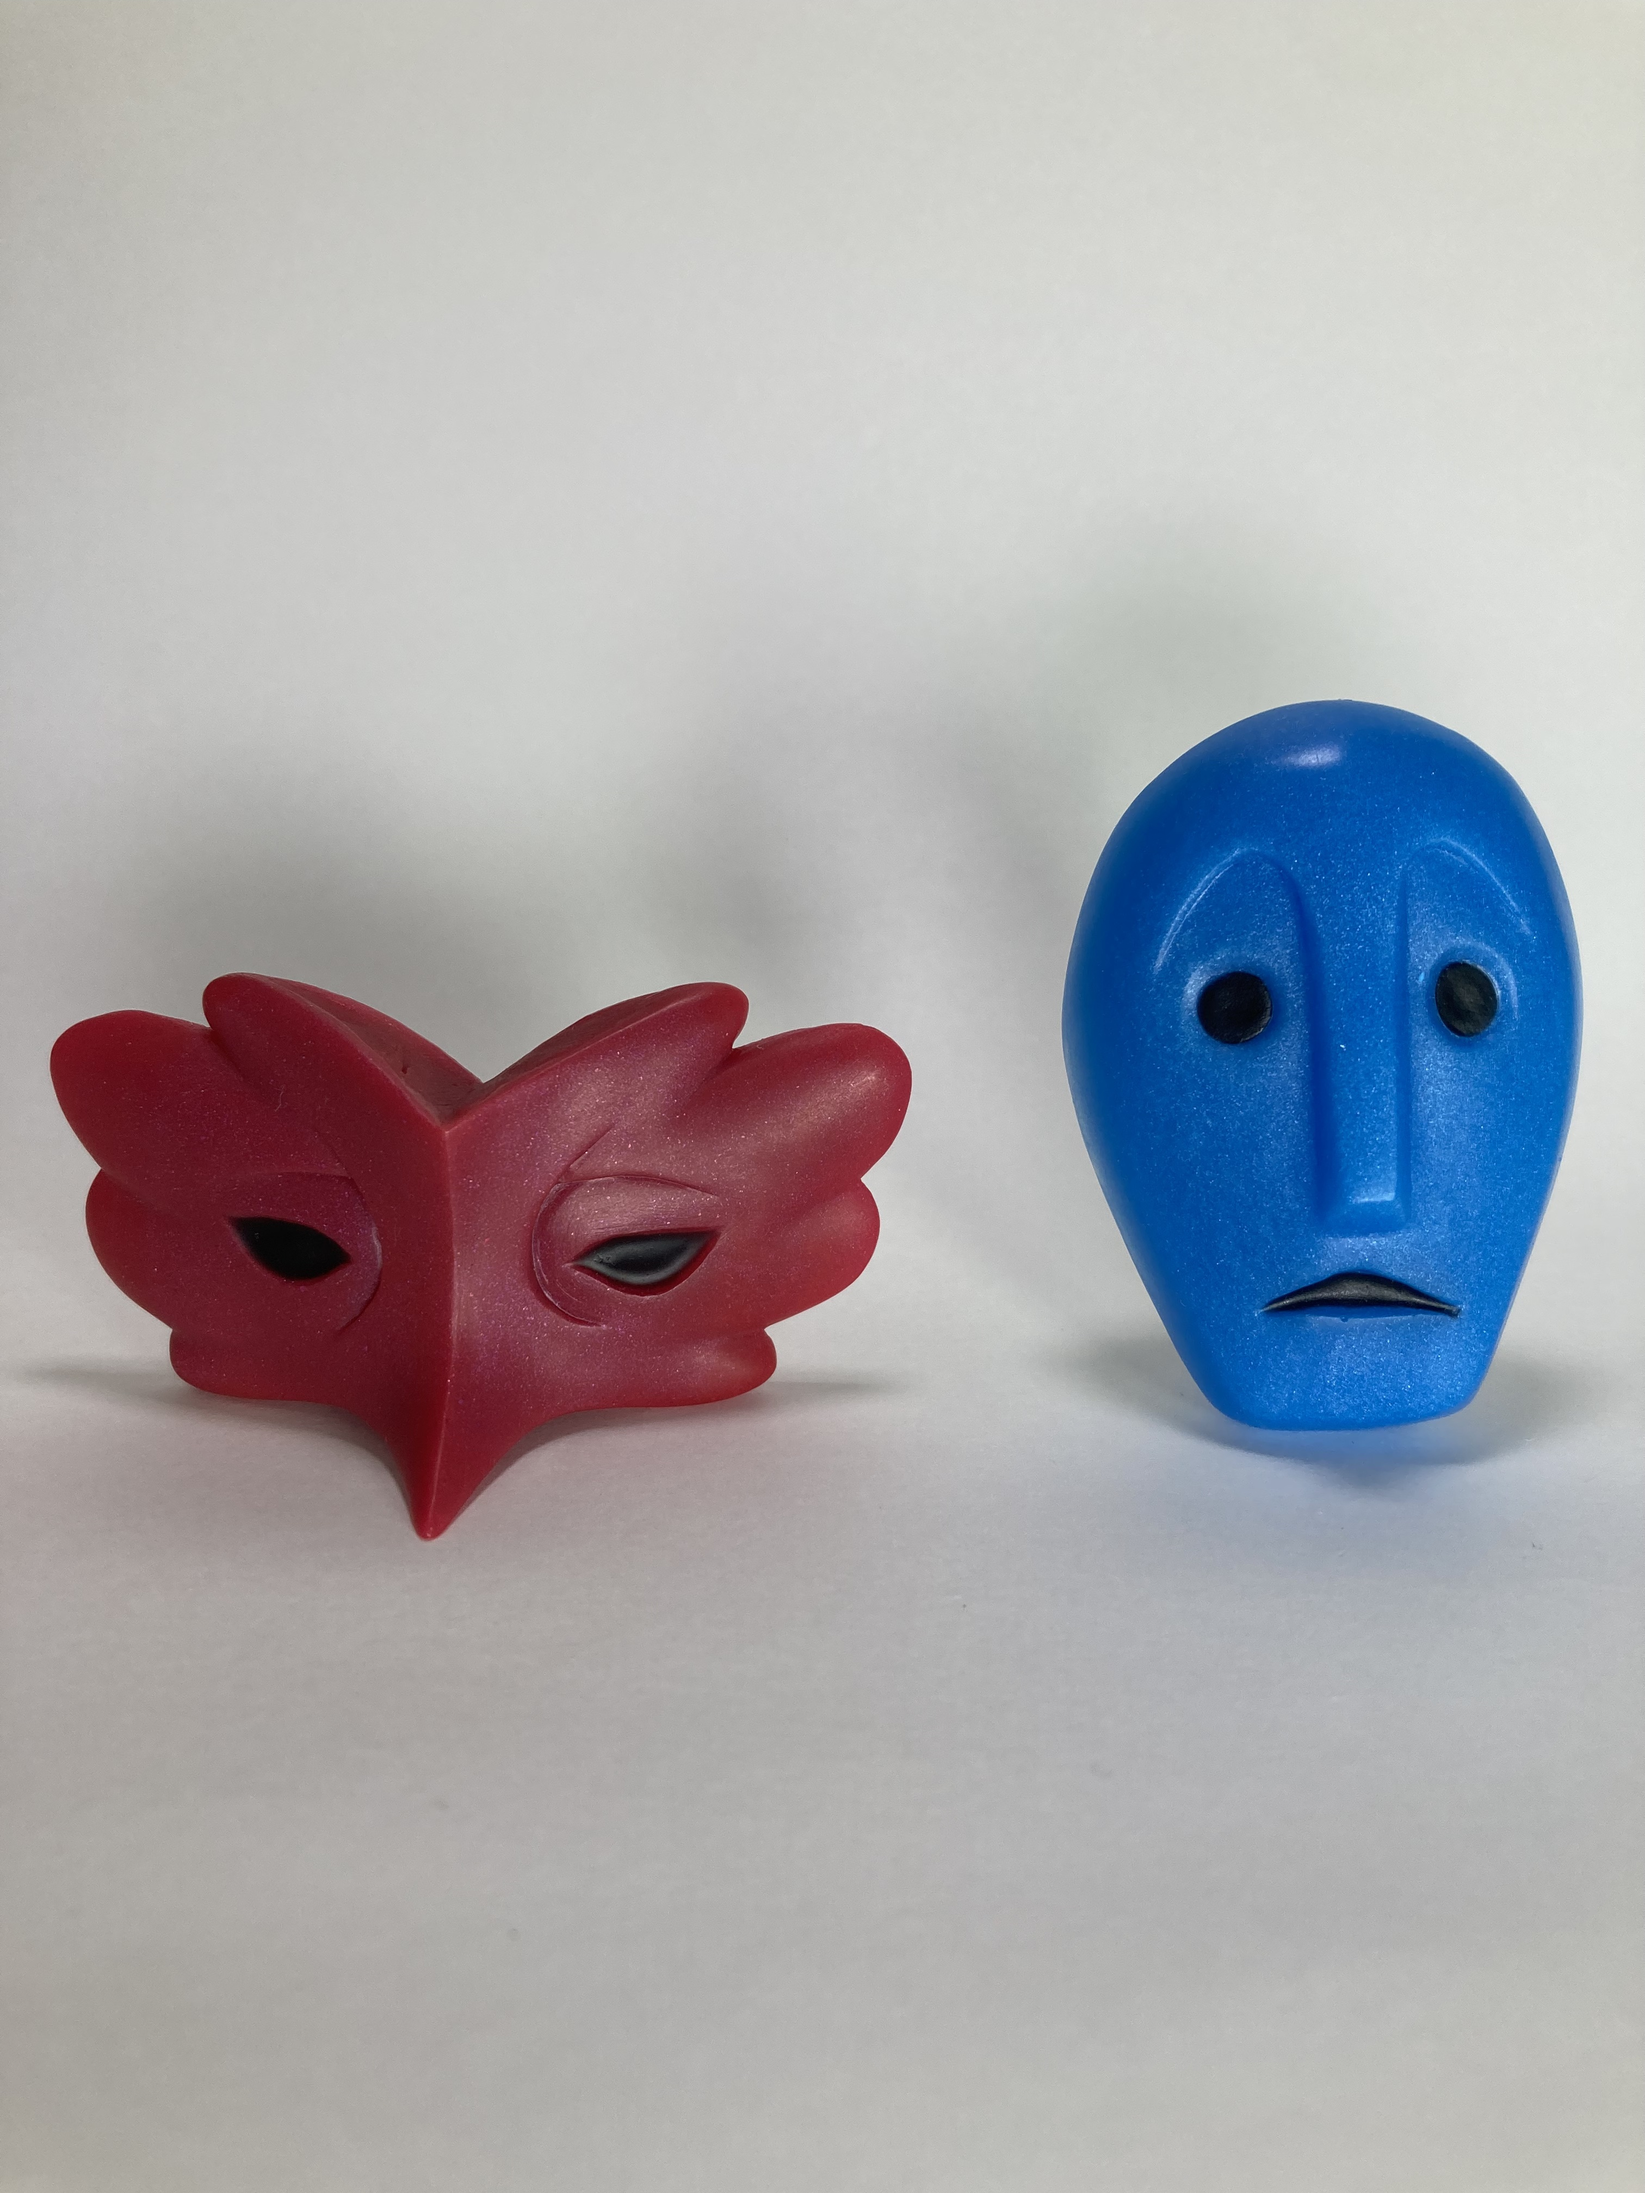
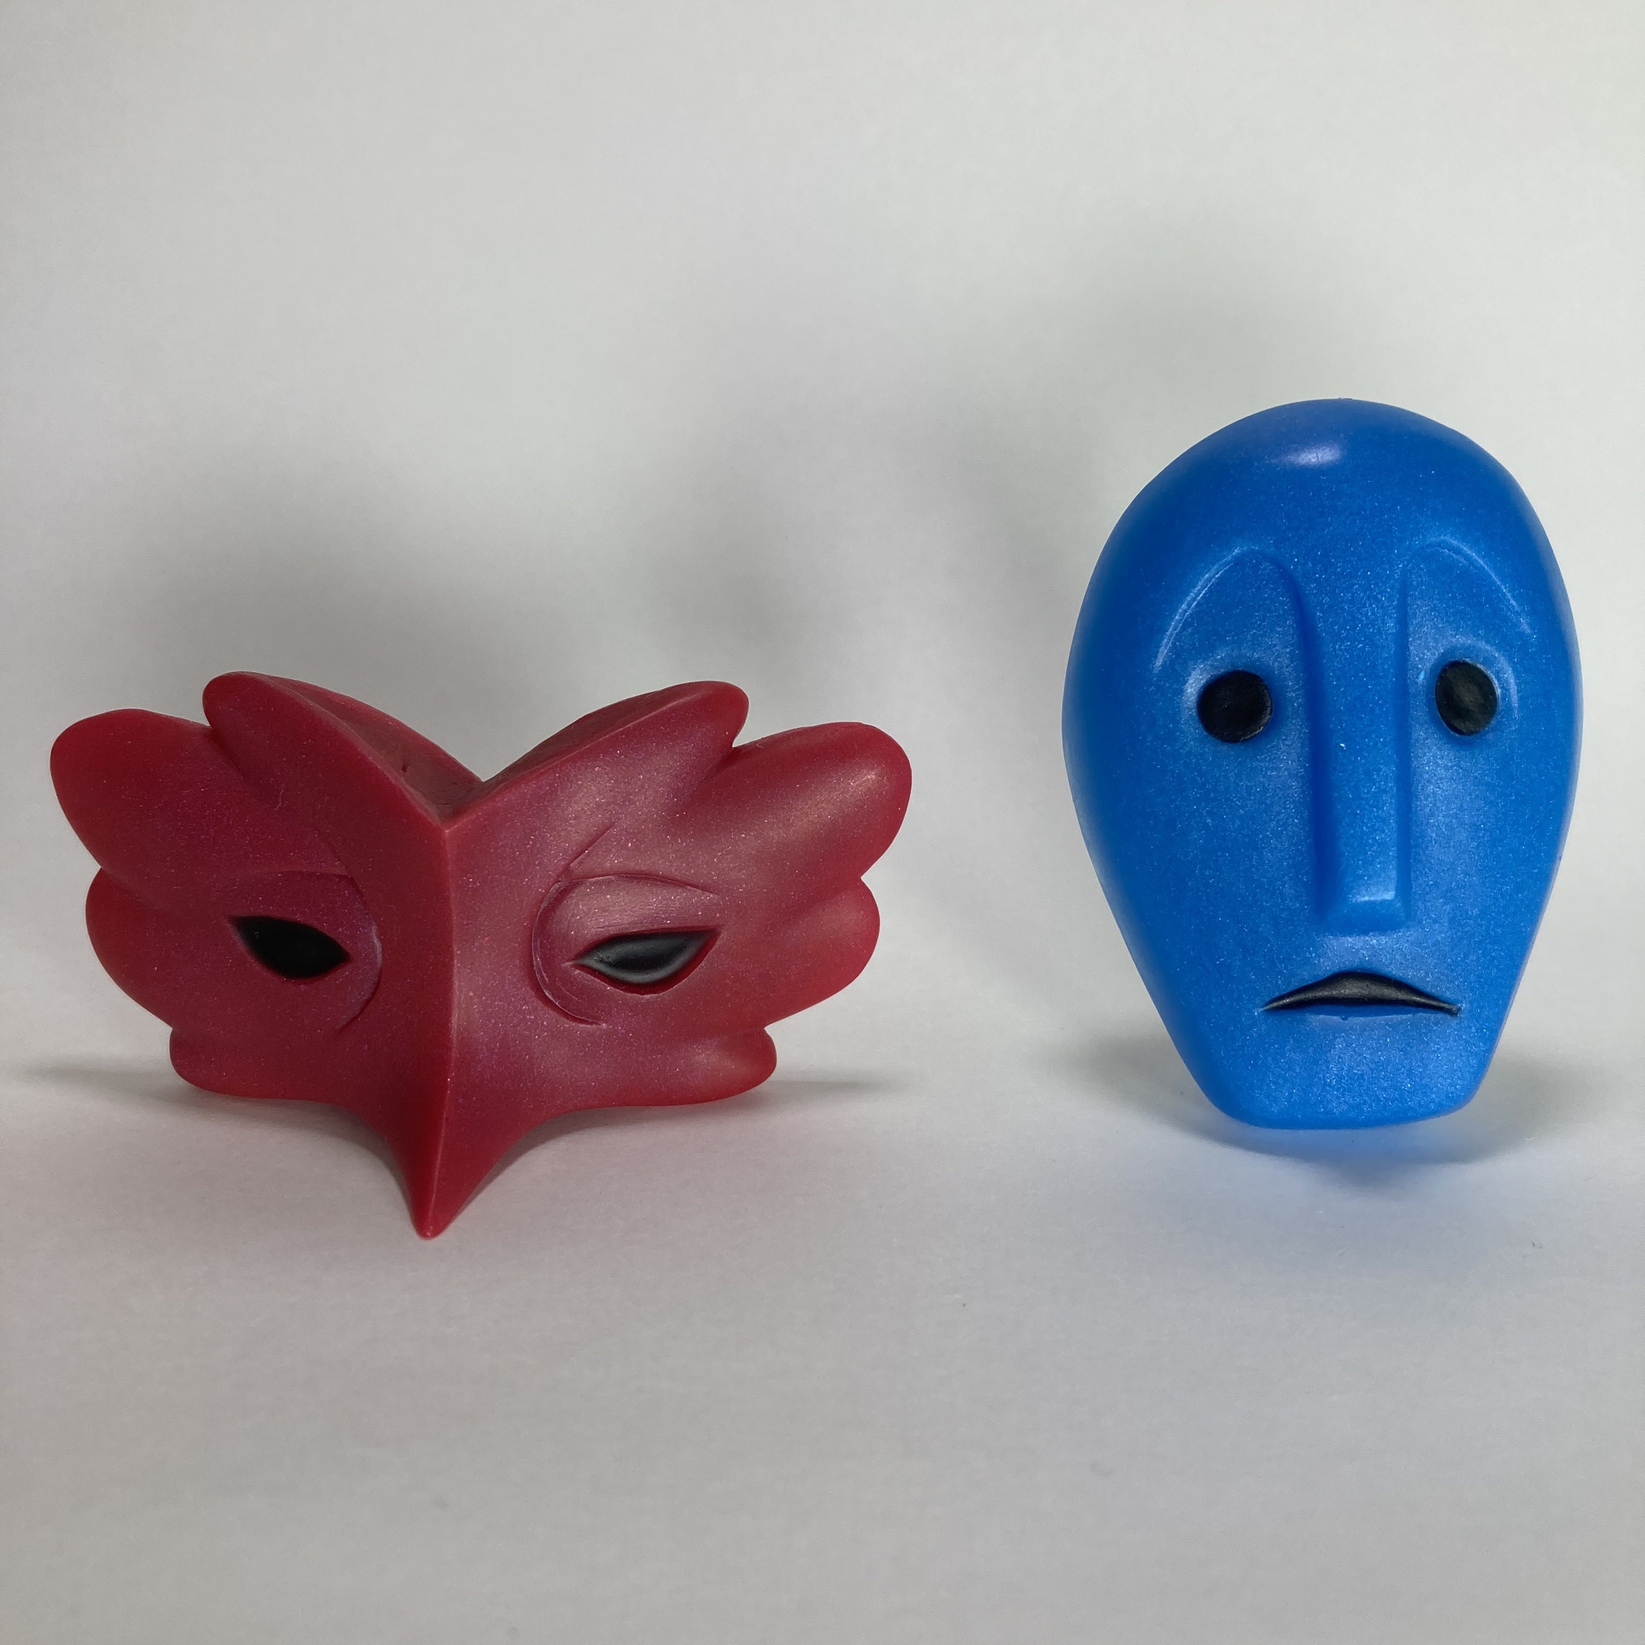
サイズ調整

Changed region(s): [[0.5595, 0.1865, 0.9636, 0.7771], [0.0311, 0.2798, 0.5595, 0.7771]]

diff --git a/main.css b/main.css
@@ -201,7 +201,7 @@ body {
 .post-header {
   background-color: rgba(0,0,0,.6);}
 .thumbnail-list {
-  margin-top: 5px 0 20px 0;
+  margin: 5px 0 20px 0;
 }
 .thumbnail {
   margin-right: 5px;
